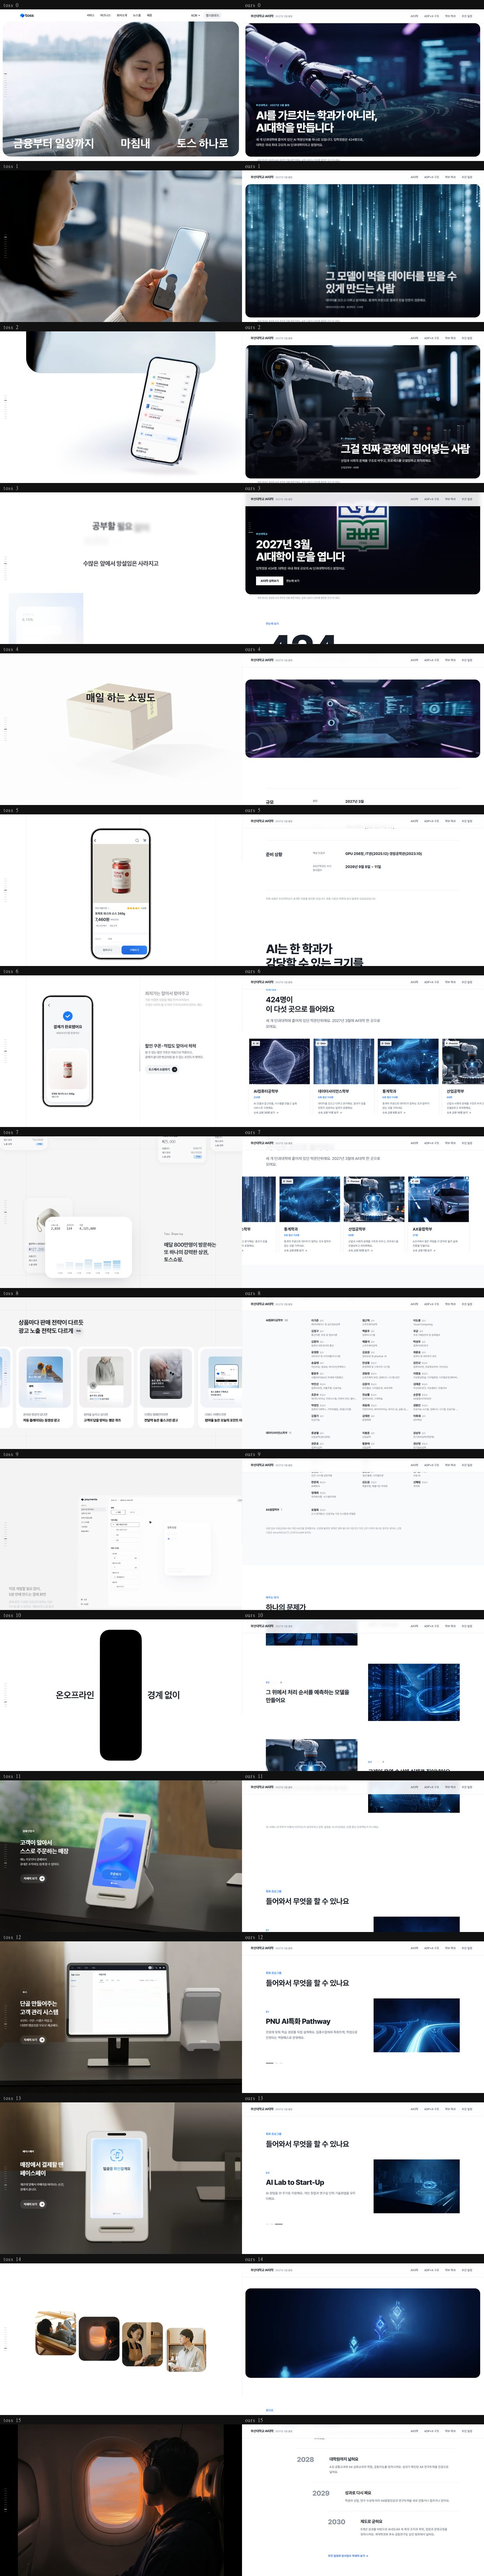
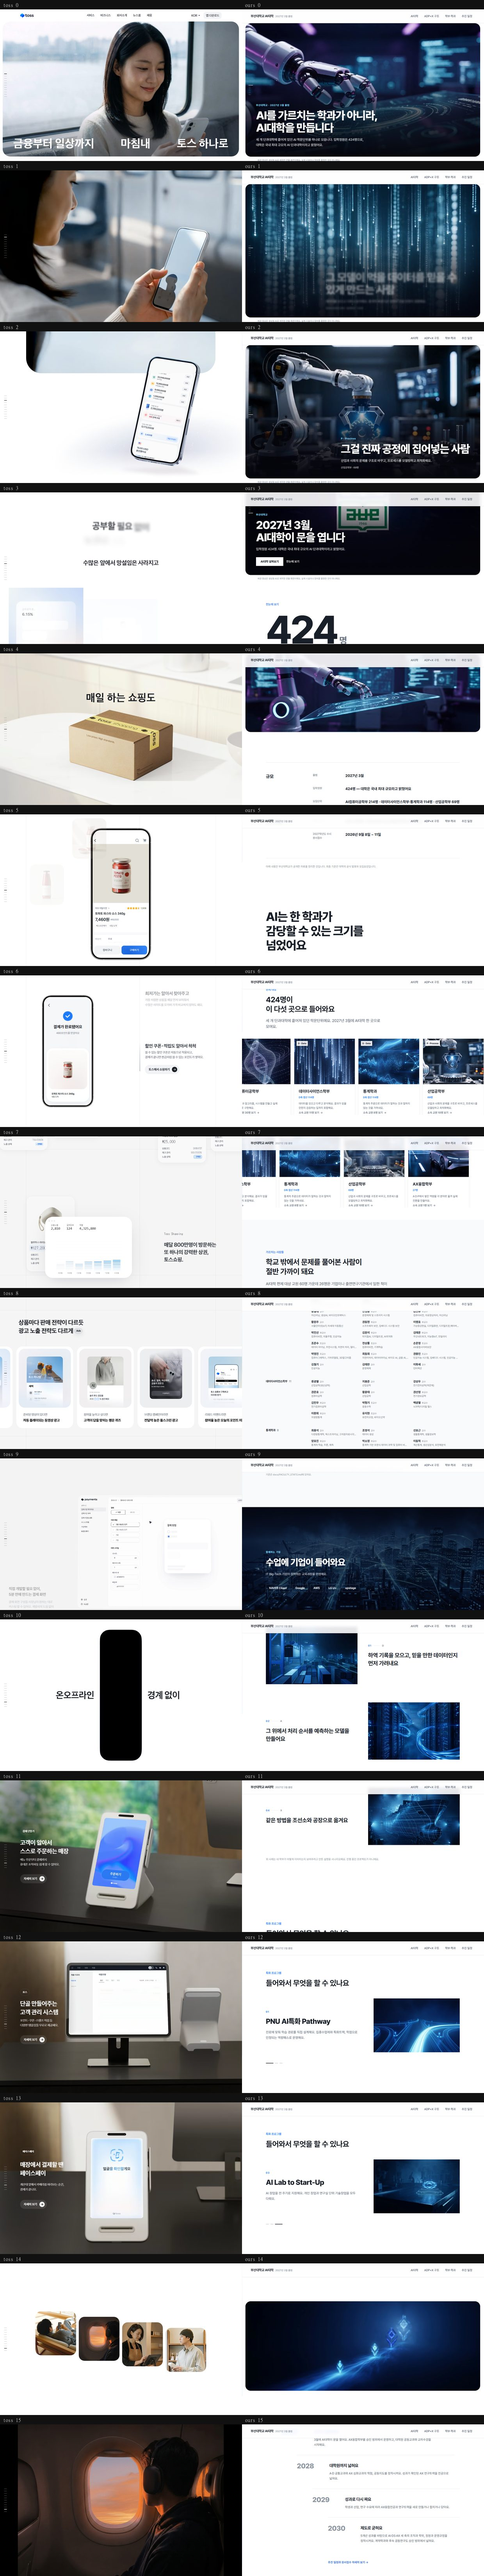
17회차 기록: 협력 기업 전면 화면과 전면 이미지 분포
Claude-Session: https://claude.ai/code/session_01DneFDYxx25DjwNJdj8uLH7

diff --git a/docs/GAP_LOG.md b/docs/GAP_LOG.md
@@ -578,3 +578,37 @@ toss 는 절마다 화면을 새로 쌓지만 우리는 무대를 고정했다. 
 
 **남은 것**: 홈에 아직 없는 내용 — 운영 체계(PNU-APEX), 협력 기업(NAVER Cloud /
 Google / AWS / LG U+ / upstage). 둘 다 `/ai-college` 안쪽이다.
+
+## 17회차 — 아홉 화면 연속으로 전면 이미지가 없었다
+
+**측정**: 배포본 16단계. 전면 이미지가 행 0~4 와 행 14 이후에만 있다.
+**행 5부터 13까지 아홉 화면 연속으로 전면 이미지가 하나도 없다.** 표 → 숨 쉬는
+화면 → 레일 → 이름 벽 → 부산항 → 프로그램이 전부 흰 바탕 안쪽에서 끝난다.
+toss 는 흰 화면과 전면 사진을 계속 번갈아 간다.
+
+**먼저 확인한 것**: 캡처의 흰 자리가 레이아웃 구멍인지부터 쟀다. 열한 개 절 경계가
+**전부 0px** 다. 흰 부분은 절 안쪽 여백과 표본 경계지 결함이 아니다. 되돌릴 것이 없다.
+
+**고침**: 이름 벽과 부산항 절 사이에 협력 기업 전면 화면. 그 자리에 마침 홈에 없던
+내용이 하나 있었다. 이름 벽(누가 가르치나) 다음에 「수업에 기업이 들어와요」가 오면
+사람 이야기가 학교 밖으로 이어진다.
+
+**에셋** `industry_night` — 밤의 임해 산업도시를 높은 곳에서 내려다본 화면. 왼쪽에
+항만 크레인, 가운데 공장, 오른쪽 사무동이 서고 건물 사이를 파란 선이 잇는다.
+동남권이라는 배경과 "기업과 이어진다"는 내용이 한 화면에 들어간다. 210° 82%.
+2 + 10 = 12크레딧.
+
+**로고를 안 쓴 이유**: 기업 이름은 테두리 있는 글자로만 적는다. 생성 이미지에 상표를
+그려 넣는 것은 물론이고 실제 로고 파일을 쓰는 것도 사용 허락이 필요한 일이다.
+대학이 공개한 자료에 적힌 이름을 그대로 옮기는 선에서 멈춘다.
+
+**재측정**: 전면 이미지가 행 0~3 / 4 / **9** / 14 / 끝으로 흩어졌다. 아홉 화면 연속이
+끊겼다. 실측 히어로 **20.6% → 20.1%**, 총 높이 19,395 → 19,939px (24 → 25화면).
+
+히어로 비중 추이: 40.9% → 33.1% → 28.6% → 24.7% → 20.6% → **20.1%**
+
+**힉스필드 대기열**: 미완료 없음. 잔액 ~587.
+
+**남은 것**: 홈에 아직 없는 내용은 운영 체계(PNU-APEX) 하나뿐이다. 다만 25화면이면
+toss(20화면)를 이미 넘었다. 다음 회차부터는 길이를 더 늘리는 쪽보다 화면 하나하나의
+완성도를 보는 쪽이 맞다.
